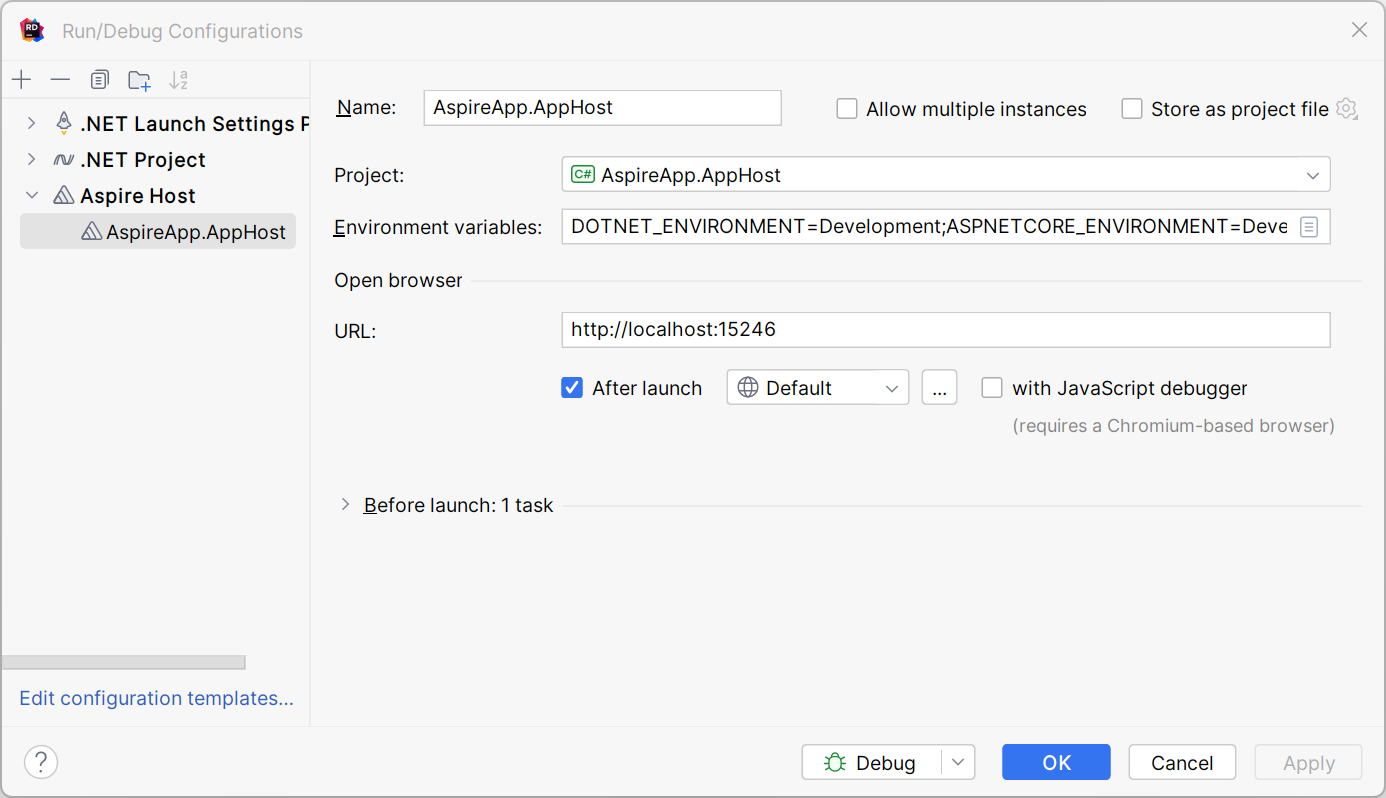
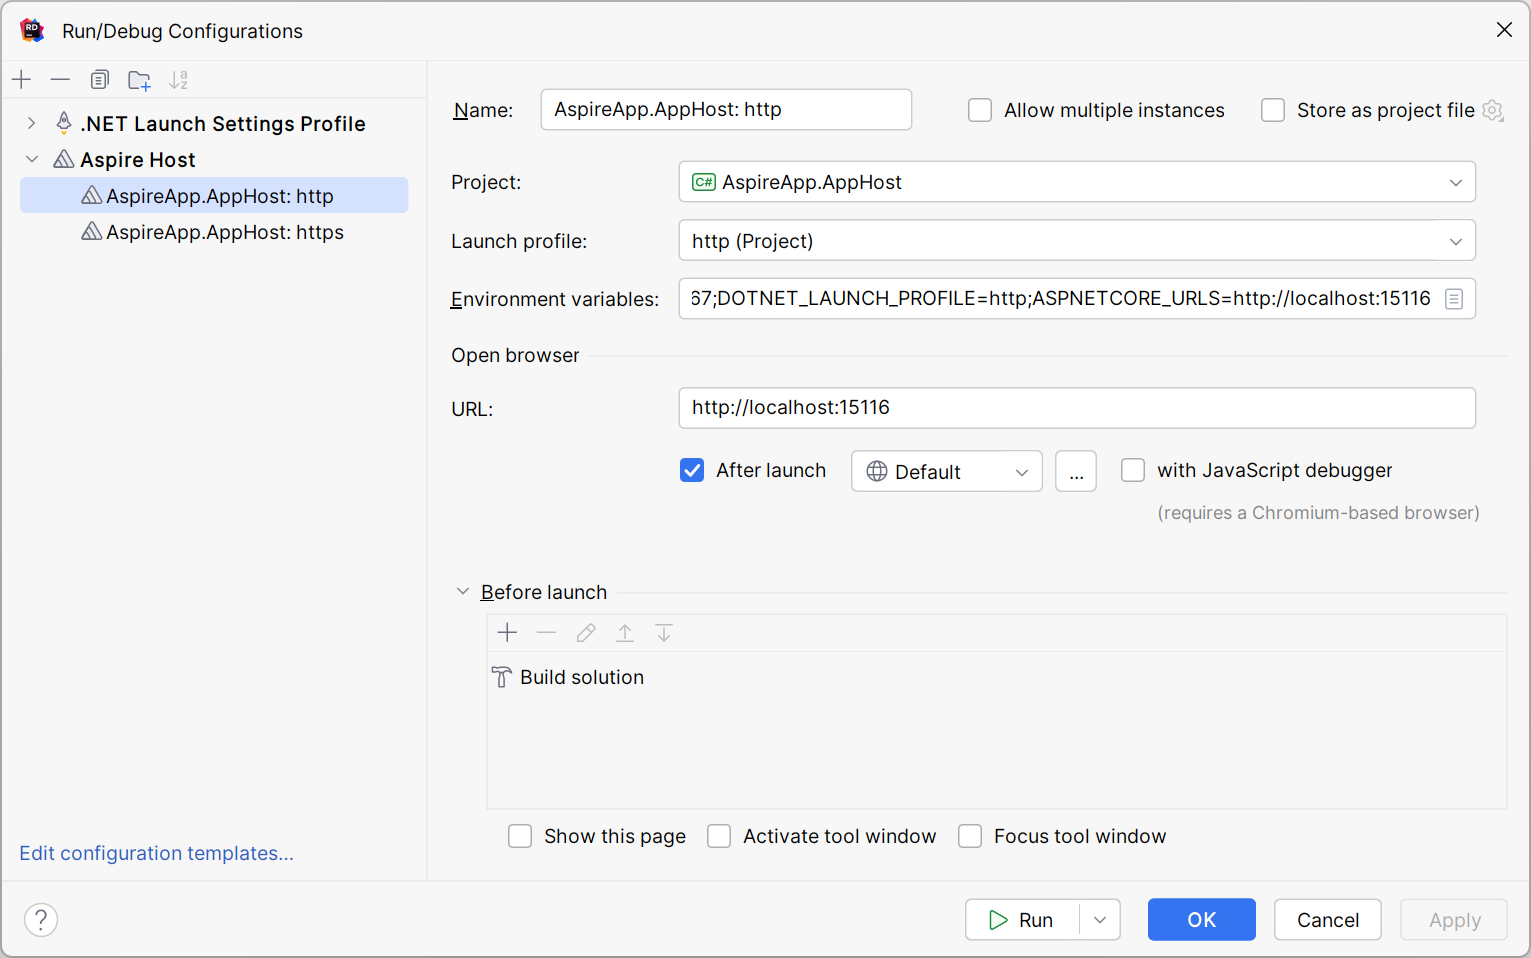
Update documentation
Fix #120

diff --git a/docs/topics/run-configuration.md b/docs/topics/run-configuration.md
@@ -2,12 +2,18 @@
 
 The plugin provides a special run configuration for the .NET Aspire Host projects.
 It discovers such projects by the `<IsAspireHost>true</IsAspireHost>` MSBuild property.
+For each `launchSettings.json` profile of this project, the corresponding launch configuration will be generated.
 
 ![Aspire Host run configuration](run-config.png){ width="700" }
 
 {style="narrow"}
 Project
 : .NET Aspire host project (defined by the `IsAspireHost` property).
+
+{style="narrow"}
+Profile
+: A profile name from the `launchSettings.json` file. After changing the profile, the `Environment Variables` and `URL`
+fields will be updated accordingly.
 
 Environment variables
 : List of environment variables. The list is defined by the `environmentVariables` property from
@@ -21,7 +27,14 @@ This run configuration allows you to run or debug multiple projects registered i
 
 ![Debugging multiple Aspire projects](debugging.jpg){ width="700" }
 
-A separate node will also be created in the Services tool window. 
+> Usually, run configurations with the `.NET Launch Settings Profile` type will also be created for the Aspire Host
+> project. By default, they will have the same name and a different icon. These can be useful if you don't want to debug
+> your services and just run them as is (similar to the `dotnet run` experience). In this case, the plugin will not
+> participate in the run and all its features will not be available.
+>
+{style="note"}
+
+A separate node will also be created in the Services tool window.
 It allows you to monitor resources while Aspire Host is running.
 For example, you can find resource properties, endpoints, environment variables, and read logs there.
 In addition, the resource tree provides [OpenTelemetry information](open-telemetry.md) if this feature is enabled.
